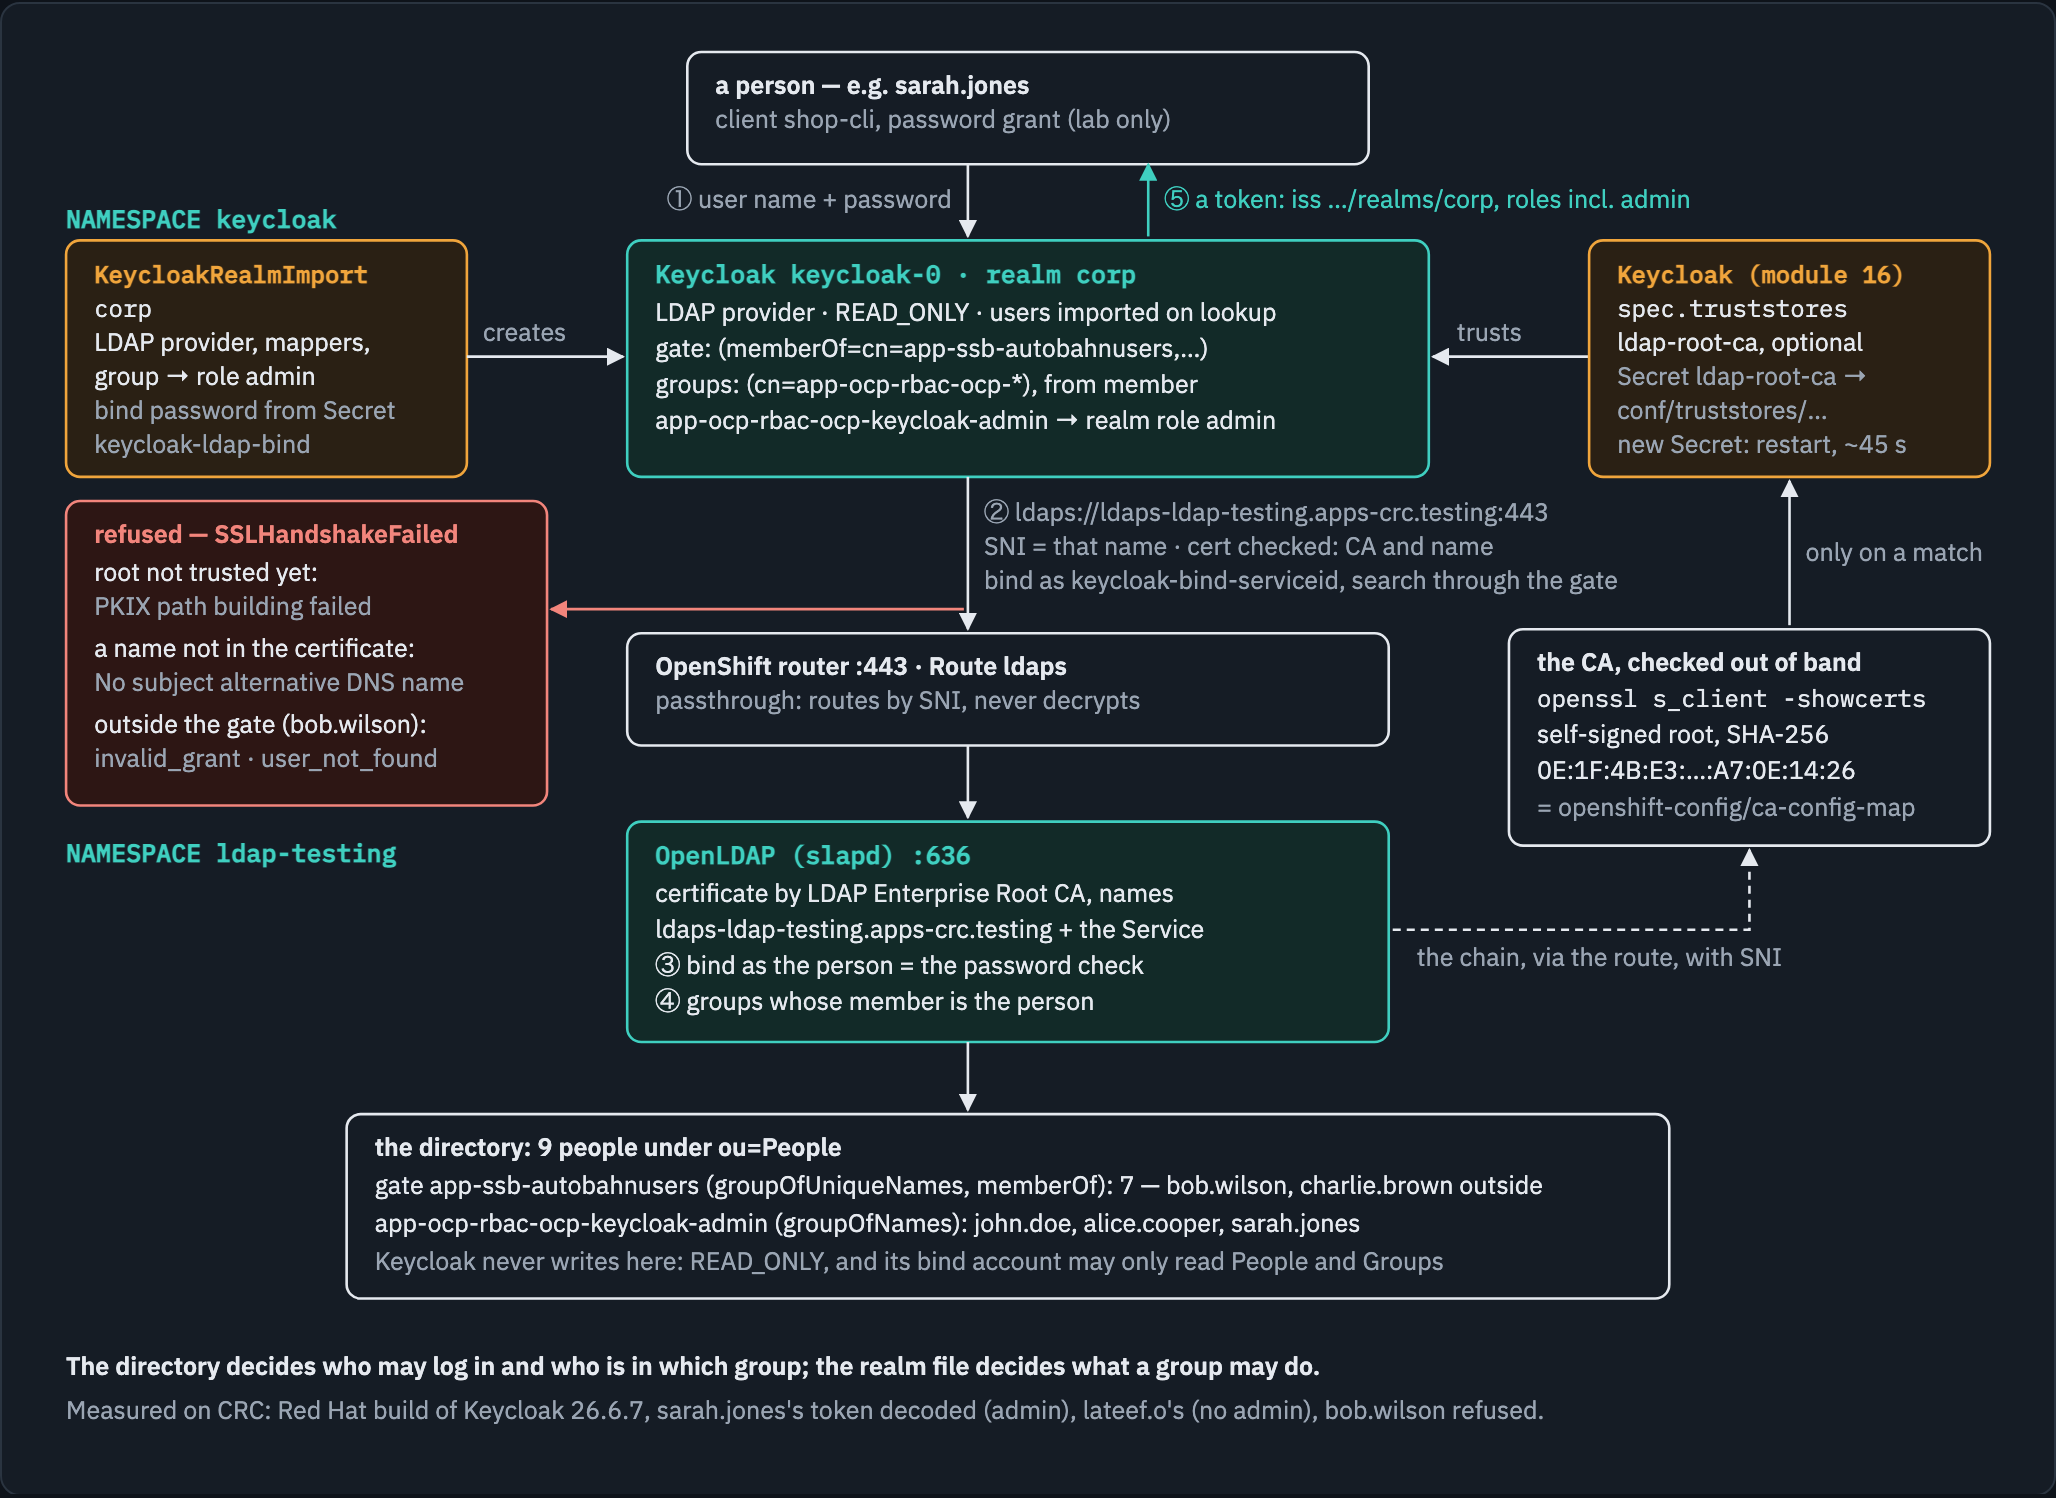
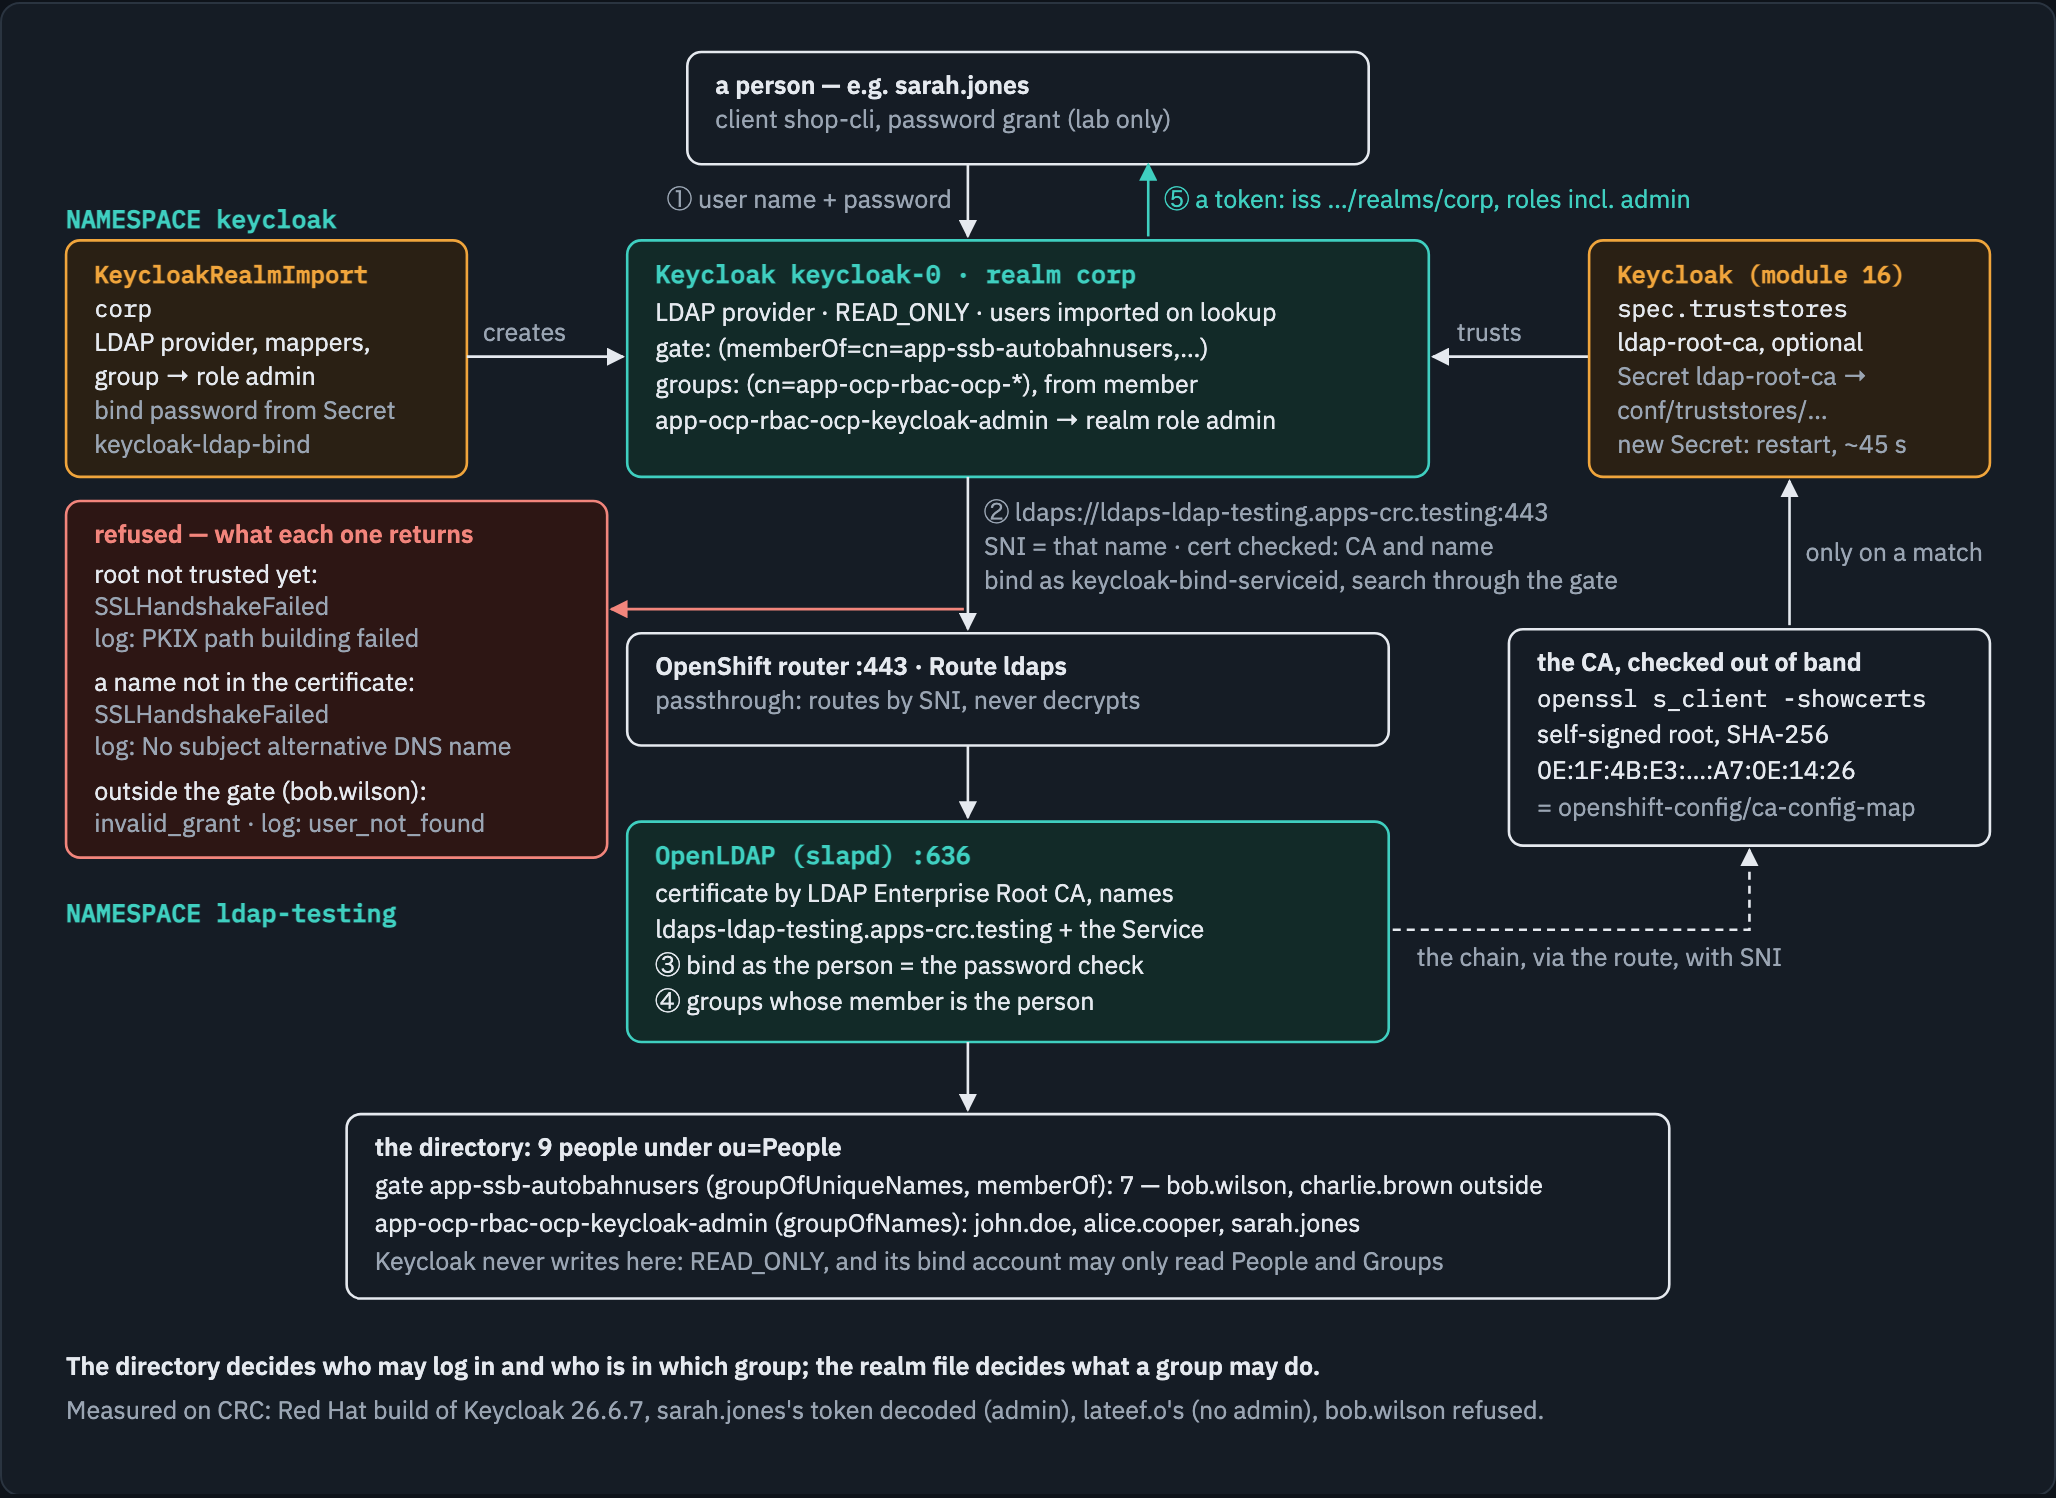
Module 18 round 2: apply review decisions A-J from #7
A  No token in any process argv: run.sh's claims() reads the JWT on stdin;
   admin.sh hands curl the bearer as a config file on fd 3 (-K) and gives
   Python the stored LDAP component on stdin. Sampled in the client pod:
   Bearer in 321 of 1062 curl argvs before, 0 of 790 after.
B  deploy: realm corp absent (a 404, nothing else) while its import exists
   -> delete the import and apply it again, and report success only once
   the realm exists; an unknown realm state stops with nothing changed.
C  "Trusted" only when a keycloak-0 container started after the Secret's
   data last changed (managedFields owning f:data) logs the file; a
   five-minute timeout or a refused Secret write is a failure. README step
   6 waits the same way, bounded, keyed to the Secret's creation time.
D  Empty fingerprints fail: verify's root check and README step 5.
E  verify compares corp's user set with the gate's members read from the
   directory (ldapsearch as the bind account, password on stdin), and
   checks charlie.brown as well as bob.wilson.
F  clean reports each deletion as deleted, already absent, or the error;
   any failure fails it; a realm that cannot be deleted stops it first.
   admin.sh DELETE reports a 404 as already absent.
G  README: the placeholder keeps the password out of the realm file (the
   lab Secret is committed, LAB ONLY); admin.sh says a user search imports
   users; step 12 says bind plus one search per connection.
[…]

Changed region(s): [[0.0311, 0.3378, 0.249, 0.6142], [0.249, 0.3992, 0.3113, 0.4299]]

diff --git a/docs/diagrams/18-keycloak-ldap/source.html b/docs/diagrams/18-keycloak-ldap/source.html
@@ -118,22 +118,24 @@ a { color: var(--remote); }
 <text x="478" y="280" fill="var(--muted)">bind as keycloak-bind-serviceid, search through the gate</text>
 
 <!-- failures, west -->
-<line x1="468" y1="290" x2="262" y2="290" stroke="var(--gap)" stroke-width="1.3" marker-end="url(#f18g)"/>
-<rect x="20" y="236" width="240" height="152" rx="7" fill="var(--gap-wash)" stroke="var(--gap)" stroke-width="1.3"/>
-<text x="34" y="257" font-weight="600" fill="var(--gap)">refused — SSLHandshakeFailed</text>
-<text x="34" y="276">root not trusted yet:</text>
-<text x="34" y="293" fill="var(--muted)">PKIX path building failed</text>
-<text x="34" y="314">a name not in the certificate:</text>
-<text x="34" y="331" fill="var(--muted)">No subject alternative DNS name</text>
-<text x="34" y="352">outside the gate (bob.wilson):</text>
-<text x="34" y="369" fill="var(--muted)">invalid_grant · user_not_found</text>
+<line x1="468" y1="290" x2="292" y2="290" stroke="var(--gap)" stroke-width="1.3" marker-end="url(#f18g)"/>
+<rect x="20" y="236" width="270" height="178" rx="7" fill="var(--gap-wash)" stroke="var(--gap)" stroke-width="1.3"/>
+<text x="34" y="257" font-weight="600" fill="var(--gap)">refused — what each one returns</text>
+<text x="34" y="277">root not trusted yet:</text>
+<text x="34" y="293" fill="var(--muted)">SSLHandshakeFailed</text>
+<text x="34" y="309" fill="var(--muted)">log: PKIX path building failed</text>
+<text x="34" y="331">a name not in the certificate:</text>
+<text x="34" y="347" fill="var(--muted)">SSLHandshakeFailed</text>
+<text x="34" y="363" fill="var(--muted)">log: No subject alternative DNS name</text>
+<text x="34" y="385">outside the gate (bob.wilson):</text>
+<text x="34" y="401" fill="var(--muted)">invalid_grant · log: user_not_found</text>
 
 <rect x="300" y="302" width="380" height="56" rx="7" fill="none" stroke="currentColor" stroke-width="1.3"/>
 <text x="314" y="323" font-weight="600">OpenShift router :443 · Route ldaps</text>
 <text x="314" y="340" fill="var(--muted)">passthrough: routes by SNI, never decrypts</text>
 <line x1="470" y1="358" x2="470" y2="394" stroke="currentColor" stroke-width="1.3" marker-end="url(#f18)"/>
 
-<text x="20" y="416" font-family="IBM Plex Mono, monospace" font-size="12.5" font-weight="600" fill="var(--remote)">NAMESPACE ldap-testing</text>
+<text x="20" y="446" font-family="IBM Plex Mono, monospace" font-size="12.5" font-weight="600" fill="var(--remote)">NAMESPACE ldap-testing</text>
 <rect x="300" y="396" width="380" height="110" rx="7" fill="var(--remote-wash)" stroke="var(--remote)" stroke-width="1.3"/>
 <text x="314" y="417" font-family="IBM Plex Mono, monospace" font-size="12.5" font-weight="600" fill="var(--remote)">OpenLDAP (slapd) :636</text>
 <text x="314" y="436">certificate by LDAP Enterprise Root CA, names</text>

diff --git a/18-keycloak-ldap/README.md b/18-keycloak-ldap/README.md
@@ -22,7 +22,8 @@ Everything is declared in two Kubernetes resources — module 16's `Keycloak`, a
 - how to fetch a server's CA from the TLS handshake, why that alone proves
   nothing, and how to check it against the PKI owner's copy before trusting it
 - how Keycloak federates LDAP: the provider, its attribute mappers, a group
-  mapper, and a bind password that never enters git
+  mapper, and a Secret placeholder that keeps the bind password out of the realm
+  file (this lab commits its published test password too, marked LAB ONLY)
 - how to decide who may log in — every person in the directory, or only the
   members of a gate group — and why the gate is the enterprise choice
 
@@ -160,18 +161,20 @@ sha256 Fingerprint=0E:1F:4B:E3:E3:05:86:8C:85:3B:FA:63:6E:B2:EB:8D:BC:06:1A:96:1
 $ oc extract configmap/ca-config-map -n openshift-config --keys=ca.crt --to=- 2>/dev/null | openssl x509 -noout -subject -fingerprint -sha256
 subject=O=Enterprise IT, OU=Directory Services, CN=LDAP Enterprise Root CA
 sha256 Fingerprint=0E:1F:4B:E3:E3:05:86:8C:85:3B:FA:63:6E:B2:EB:8D:BC:06:1A:96:13:37:54:66:D2:5F:AD:46:A7:0E:14:26
-$ if [ "$(openssl x509 -in ldap-root-ca.pem -noout -fingerprint -sha256)" = "$(oc extract configmap/ca-config-map -n openshift-config --keys=ca.crt --to=- 2>/dev/null | openssl x509 -noout -fingerprint -sha256)" ]; then echo "match - trust it"; else echo "MISMATCH - stop: trust nothing"; false; fi
+$ wire=$(openssl x509 -in ldap-root-ca.pem -noout -fingerprint -sha256); owner=$(oc extract configmap/ca-config-map -n openshift-config --keys=ca.crt --to=- 2>/dev/null | openssl x509 -noout -fingerprint -sha256); if [ -n "$wire" ] && [ "$wire" = "$owner" ]; then echo "match - trust it"; else echo "MISMATCH or unreadable - stop: trust nothing"; false; fi
 match - trust it
 $ openssl s_client -connect ldaps-ldap-testing.apps-crc.testing:443 -servername ldaps-ldap-testing.apps-crc.testing -CAfile ldap-root-ca.pem -verify_hostname ldaps-ldap-testing.apps-crc.testing -verify_return_error </dev/null 2>&1 | grep 'Verify return code'
 Verify return code: 0 (ok)
 ```
 
 **What just happened:** the two SHA-256 fingerprints are the same — the root
-the directory sent **is** the PKI owner's. Only now is it safe to trust. The last
+the directory sent **is** the PKI owner's. Only now is it safe to trust. The
+comparison also refuses two **empty** fingerprints: a file or a ConfigMap that
+cannot be read gives no fingerprint, and two blanks are equal strings. The last
 command checks the whole thing the way Keycloak will: the chain up to this root,
 **and** the name `ldaps-ldap-testing.apps-crc.testing` in the certificate.
 `./run.sh deploy` makes the same comparison and **stops**, trusting nothing, on a
-mismatch. If a server sends only its leaf there is no root to take: use the PKI
+mismatch or an unreadable fingerprint. If a server sends only its leaf there is no root to take: use the PKI
 owner's copy directly.
 
 ### Step 6 — trust it
@@ -190,24 +193,33 @@ this module patched module 16's `Keycloak`, the next `oc apply` of module 16 wou
 take the truststore away again. (Ran module 16 before this field existed? Apply
 its `manifests/40-keycloak.yaml` again.) Now create the Secret, and wait: the
 operator notices the new Secret and **restarts Keycloak** — about 45 seconds
-later, measured — and the new Keycloak loads the root:
+later, measured — and the new Keycloak loads the root. Wait for exactly that: a
+Keycloak that **started after the Secret was created**. Its log line alone is no
+proof — a Keycloak started earlier names the same file, with whatever it held
+then. The wait gives up after five minutes, and then says the root is **not**
+trusted:
 
 <!-- output pending the from-scratch run.py --update pass: the wait loop's line is not yet measured as written -->
 ```console
 $ oc create secret generic ldap-root-ca -n keycloak --from-file=ldap-root-ca.pem
 secret/ldap-root-ca created
-$ until oc logs keycloak-0 -n keycloak 2>/dev/null | grep TruststoreBuilder | grep ldap-root-ca >/dev/null; do sleep 5; done; oc wait pod/keycloak-0 -n keycloak --for=condition=Ready --timeout=300s
+$ restarted=no; for i in $(seq 1 60); do [[ "$(oc get pod keycloak-0 -n keycloak -o jsonpath='{.status.containerStatuses[0].state.running.startedAt}')" > "$(oc get secret ldap-root-ca -n keycloak -o jsonpath='{.metadata.creationTimestamp}')" ]] && { restarted=yes; break; }; sleep 5; done; [ "$restarted" = yes ] && oc wait pod/keycloak-0 -n keycloak --for=condition=Ready --timeout=300s || { echo "no Keycloak started after the Secret, or it is not Ready - the root is NOT trusted"; false; }
 pod/keycloak-0 condition met
+$ echo "Secret created $(oc get secret ldap-root-ca -n keycloak -o jsonpath='{.metadata.creationTimestamp}'), Keycloak started $(oc get pod keycloak-0 -n keycloak -o jsonpath='{.status.containerStatuses[0].state.running.startedAt}')"
+Secret created 2026-09-27T00:57:56Z, Keycloak started 2026-09-27T00:58:43Z
 $ oc get pod keycloak-0 -n keycloak -o jsonpath='{.spec.containers[0].volumeMounts[?(@.name=="truststore-secret-ldap-root-ca")].mountPath}{"\n"}'
 /opt/keycloak/conf/truststores/secret-ldap-root-ca
 $ oc logs keycloak-0 -n keycloak | grep TruststoreBuilder | grep -o 'Found the following truststore files.*'
 Found the following truststore files in the truststore paths [/var/run/secrets/kubernetes.io/serviceaccount/ca.crt, /var/run/secrets/kubernetes.io/serviceaccount/service-ca.crt, /opt/keycloak/bin/../conf/truststores/secret-ldap-root-ca/ldap-root-ca.pem, /opt/keycloak/bin/../conf/truststores/secret-ldap-root-ca/..data/ldap-root-ca.pem, /opt/keycloak/bin/../conf/truststores/secret-ldap-root-ca/..2026_09_27_00_58_42.1229303664/ldap-root-ca.pem]
 ```
 
-**What just happened:** the operator mounted the Secret under
-`conf/truststores/`, and at start-up Keycloak added every file there to the
-certificates it trusts, beside the service account's `ca.crt` and
-`service-ca.crt` it lists first.
+**What just happened:** a Keycloak started 47 seconds after the Secret was
+created; the operator mounted the Secret under `conf/truststores/`, and at
+start-up that Keycloak added every file there to the certificates it trusts,
+beside the service account's `ca.crt` and `service-ca.crt` it lists first.
+`./run.sh deploy` waits the same way, with one refinement for a root that
+**changes**: it compares with the time the Secret's **data** was last written
+(its `managedFields`), not its creation.
 
 ### Step 7 — now it connects
 
@@ -401,7 +413,8 @@ conn=5990 op=0 BIND dn="uid=sarah.jones,ou=People,dc=ephico2real,dc=com" mech=SI
 **What just happened:** Keycloak opened a connection, **bound as the bind
 account**, looked sarah up — by her `entryUUID`, through the gate — and then
 bound **as sarah** on a second connection: that bind is the password check. Each
-connection carries one operation and is closed. Keycloak 26.7.0's release notes
+of the bind account's connections carries its bind and **one** search (`op=0`,
+`op=1`), then is closed. Keycloak 26.7.0's release notes
 list a fix, #50201, "LDAP user federation re-binds the service account on every
 operation since 26.6.0 (connection pool not reused)"; this Keycloak is
 `26.6.7.redhat-00003`, its connection pooling is on (the default, `true`), and
@@ -423,6 +436,9 @@ An import only **creates** a realm. Measured, one change at a time:
 | **delete the realm, then delete and re-apply the import** | a new Job creates `corp` from the file |
 
 So a change is: change the file, delete the realm, delete the import, apply.
+`./run.sh deploy` repairs the second row by itself: when realm `corp` is missing
+and its import is not, it deletes the import and applies it again — and it only
+reports success once the realm exists.
 Here with a token lifespan of 600 s instead of 300 — first applied the wrong way:
 
 <!-- output pending the from-scratch run.py --update pass: "accessTokenLifespan 600" is not yet measured as written -->
@@ -472,10 +488,11 @@ $ ./run.sh verify
   ✓ Secret ldap-root-ca holds the PKI owner's root
   ✓ Keycloak declares the truststore (module 16's resource)
   ✓ ...the operator mounts it into keycloak-0
-  ✓ ...and Keycloak loaded it when it started
+  ✓ ...and a Keycloak started after its last change loaded it
 
 2. realm corp and its LDAP provider
   ✓ realm import Done
+  ✓ realm corp exists
   ✓ provider: test connection
   ✓ provider: test authentication (the bind account)
 
@@ -487,7 +504,9 @@ $ ./run.sh verify
   ✓ lateef.o: no admin (not in keycloak-admin)
   ✓ bob.wilson (outside the gate): no token
   ✓ ...because Keycloak does not find him
-  ✓ only gate members are in corp (7 of the directory's 9)
+  ✓ charlie.brown (outside the gate): no token
+  ✓ ...because Keycloak does not find him
+  ✓ corp's users are exactly the gate's members in the directory
 
 4. the name and the CA must both match
   ✓ the in-cluster Service name: its certificate names it too
@@ -575,7 +594,8 @@ captures, zoomed, checked with `tooling/screenshot/verify.py`):
 
 ## Clean up
 
-Leave `corp` in place if you go on — module 17 is extended to accept its tokens.
+Leave `corp` in place if you go on: module 17's Gateway accepts only realm
+`tutorial`'s tokens today, and #8 adds `corp`'s.
 To remove what this module added — the realm, its import, the two Secrets —
 Keycloak restarts once more, trusting the directory no longer. Module 16's
 `Keycloak` keeps its `truststores` entry: it is optional.
@@ -586,7 +606,7 @@ $ ./admin.sh DELETE /admin/realms/corp
 $ oc delete keycloakrealmimport corp -n keycloak
 $ oc delete -f manifests/10-bind-secret.yaml
 $ oc delete secret ldap-root-ca -n keycloak
-$ rm -f chain-*.pem ldap-root-ca.pem
+$ rm -f chain-1.pem chain-2.pem ldap-root-ca.pem
 ```
 
 ## The shortcut
